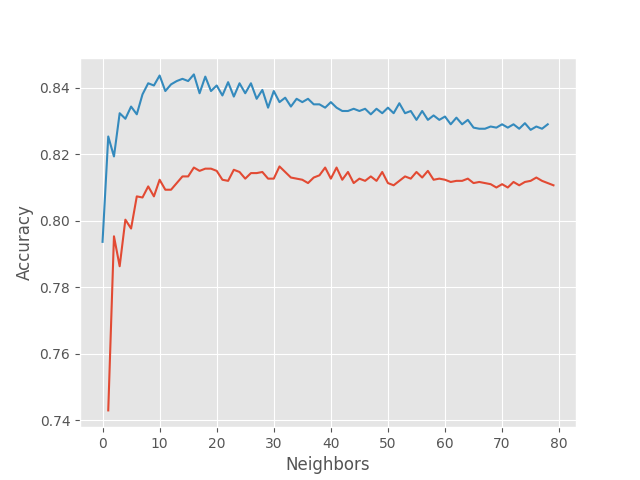
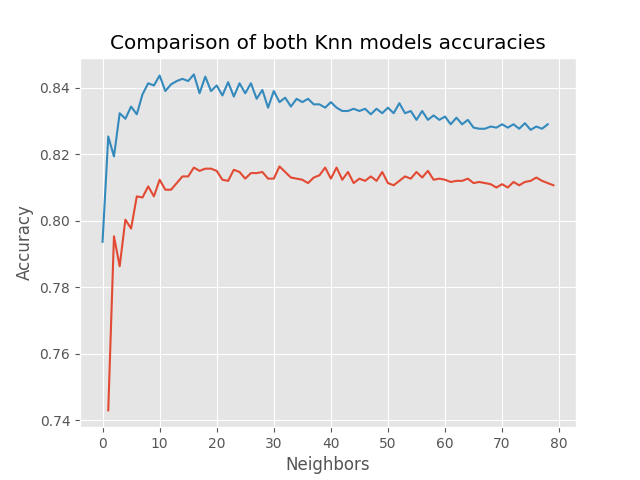
running the main.py and generating output graphs for ML part.

Changed region(s): [[0.1562, 0.0625, 0.8438, 0.125]]

diff --git a/main.py b/main.py
@@ -212,6 +212,7 @@ ax.set_xlabel('Neighbors')
 ax.set_ylabel('Accuracy')
 fig.align_labels()
 plt.savefig('ML_accur_selected_var_model')
+plt.title('Knn model accuracy (subset of variables)')
 
 ### Selecting the best model among the ones tested with different KNeighborsClassifier
 data = [accur1.index(max(accur1)), max(accur1)]
@@ -256,6 +257,7 @@ ax.plot(np.arange(1,80), accur2);  # Plot some data on the axes.
 ax.set_xlabel('Neighbors')
 ax.set_ylabel('Accuracy')
 fig.align_labels()
+plt.title('Knn model accuracy (all variables)')
 plt.savefig('ML_accur_model_complete')
 
 ### Plotting both accuracy graphs in order to compare respective models' performances
@@ -264,6 +266,7 @@ ax.plot(np.arange(1,80), accur1, accur2);  # Plot some data on the axes.
 ax.set_xlabel('Neighbors')
 ax.set_ylabel('Accuracy')
 fig.align_labels()
+plt.title('Comparison of both Knn models accuracies')
 plt.savefig('ML_accur_comparison')
 
 ### Selecting the best model among the ones tested with different KNeighborsClassifier
